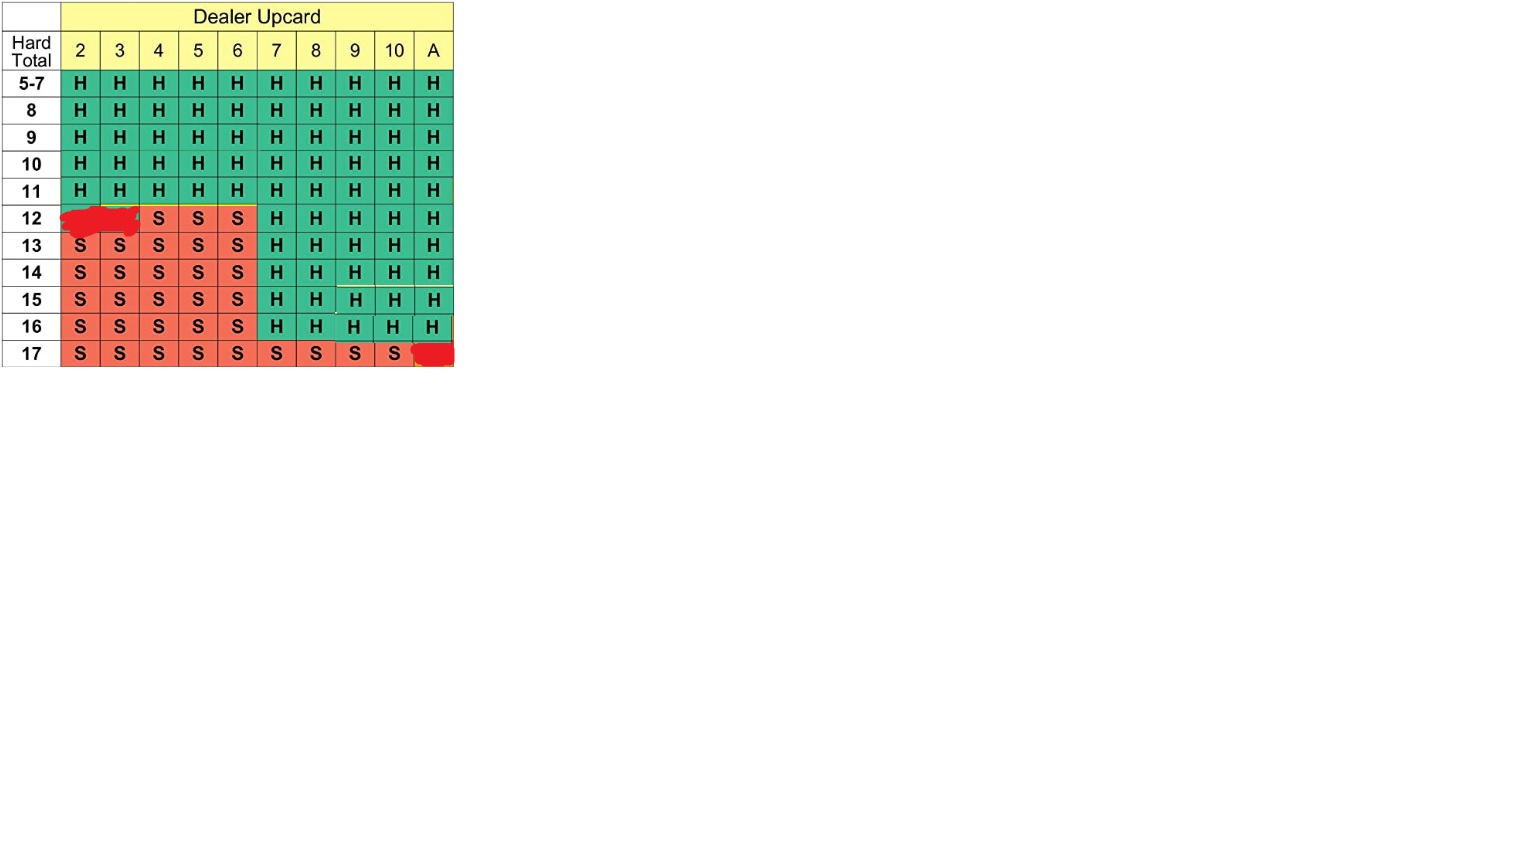
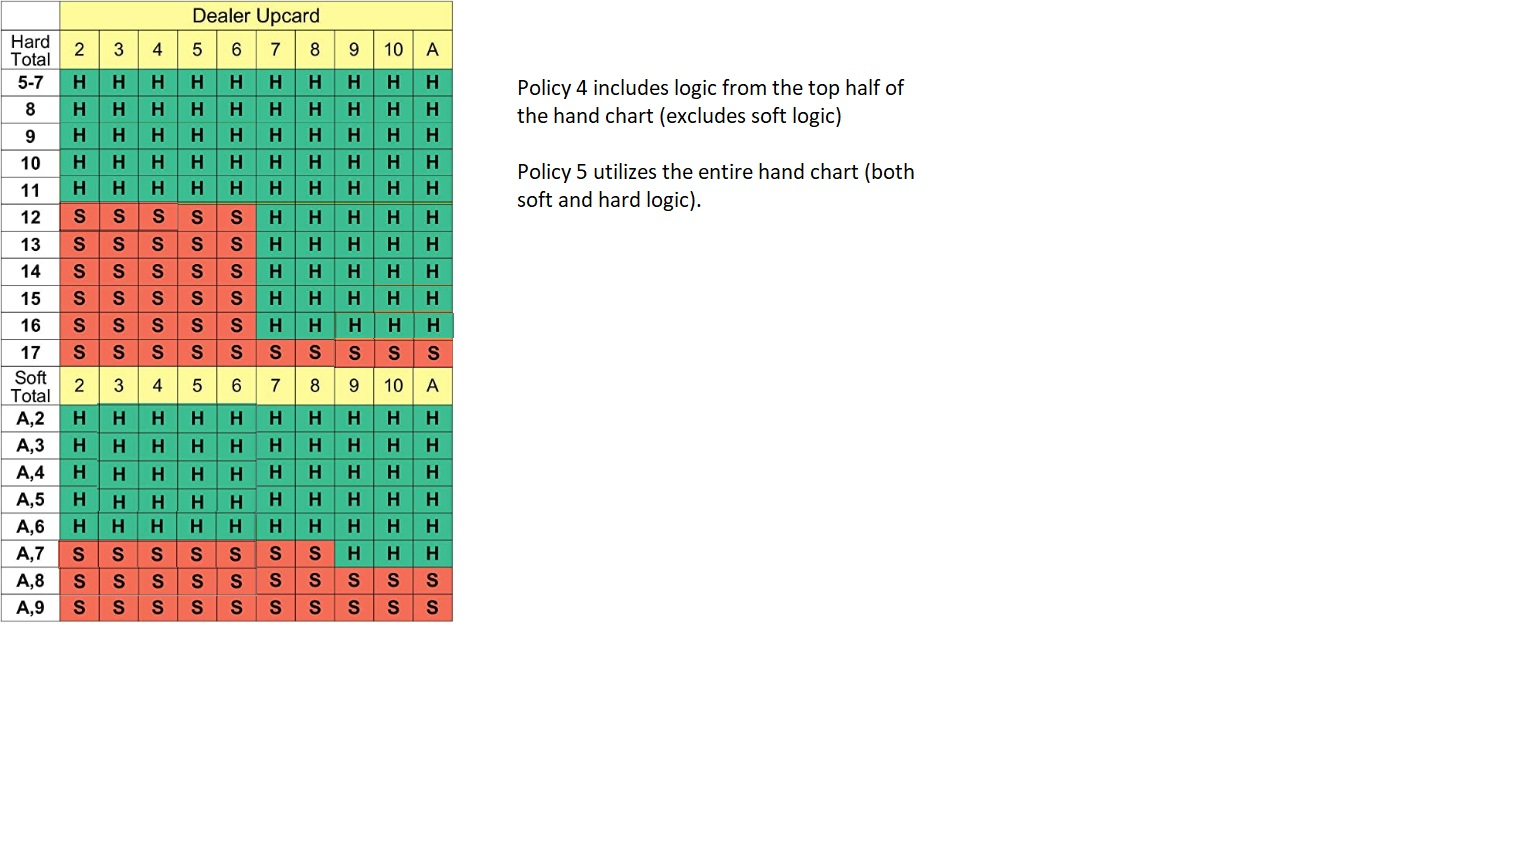
Added policy 4 (soft policy). Added blackjack win condition

Changed region(s): [[0.0, 0.0, 0.3125, 0.7188], [0.3438, 0.0938, 0.5938, 0.1562], [0.3438, 0.1875, 0.5938, 0.25]]

diff --git a/blackJack/BlackJack_Update.py b/blackJack/BlackJack_Update.py
@@ -16,6 +16,10 @@ def hand_value(hand):
         return sum(hand) + 10
     return sum(hand)
 
+# Calculate the soft value of a hand
+def soft_hand_value(hand):
+    return sum(hand)
+
 # Policy 1: If your hand ≥ 17, stick. Else hit.
 def policy1(hand, d_card):
     return hand_value(hand) < 17
@@ -28,8 +32,29 @@ def policy2(hand, d_card):
 def policy3(hand, d_card):
     return False
 
-# Policy 5: Basic hand chart
+# Policy 4: Basic hand chart (Does not include logic for soft hands)
+def policy4(hand, d_card):
+    if hand_value(hand) >= 17:
+        return False
+    if hand_value(hand) < 17 and hand_value(hand) > 11 and  d_card < 7:
+        return False
+    return True
+
+# Policy 5: Basic hand chart (Includes logic for soft hands)
 def policy5(hand, d_card):
+
+    # Soft hand
+    if soft(hand):
+        if soft_hand_value(hand) < 8:
+            return True
+        elif soft_hand_value(hand) > 8:
+            return False
+        elif soft_hand_value(hand) == 8 and d_card <= 8:
+            return False
+        elif soft_hand_value(hand) == 8 and d_card > 8:
+            return True
+
+    # Hard hand
     if hand_value(hand) >= 17:
         return False
     if hand_value(hand) < 17 and hand_value(hand) > 11 and  d_card < 7:
@@ -57,11 +82,9 @@ def play_game(policy, infinite_deck=False, single_deck=False):
     hand = [draw_card(), draw_card()]
     d_hand = [draw_card(), draw_card()]
 
-    # ------------------------------------------------------------------------------
-    # IMPORTANT: If the players hand is 21 at this point, they automatically win.
-    # This is called black jack and is normally paid out 3:2 ratio. 
-    # For example: If you bet 20 dollars you win 30 dollars. 
-    # It may make sense to add 1.5 to the player win column to reflect this.
+    # Player is dealt Blackjack
+    if hand_value(hand) == 21:
+        return 1.5
 
     # Player turn
     while policy(hand, d_hand[0]):
@@ -103,8 +126,7 @@ def run_monte_carlo(policy, infinite_deck=False, single_deck=False, num_simulati
     return dealer_wins, player_wins, draws
 
 if __name__ == "__main__":
-    policies = [policy1, policy2, policy3, policy5]
-    # policies = [policy5]
+    policies = [policy1, policy2, policy3, policy4, policy5]
     deck_types = [{"infinite_deck": True, "single_deck": False},
                   {"infinite_deck": False, "single_deck": True}]
 
